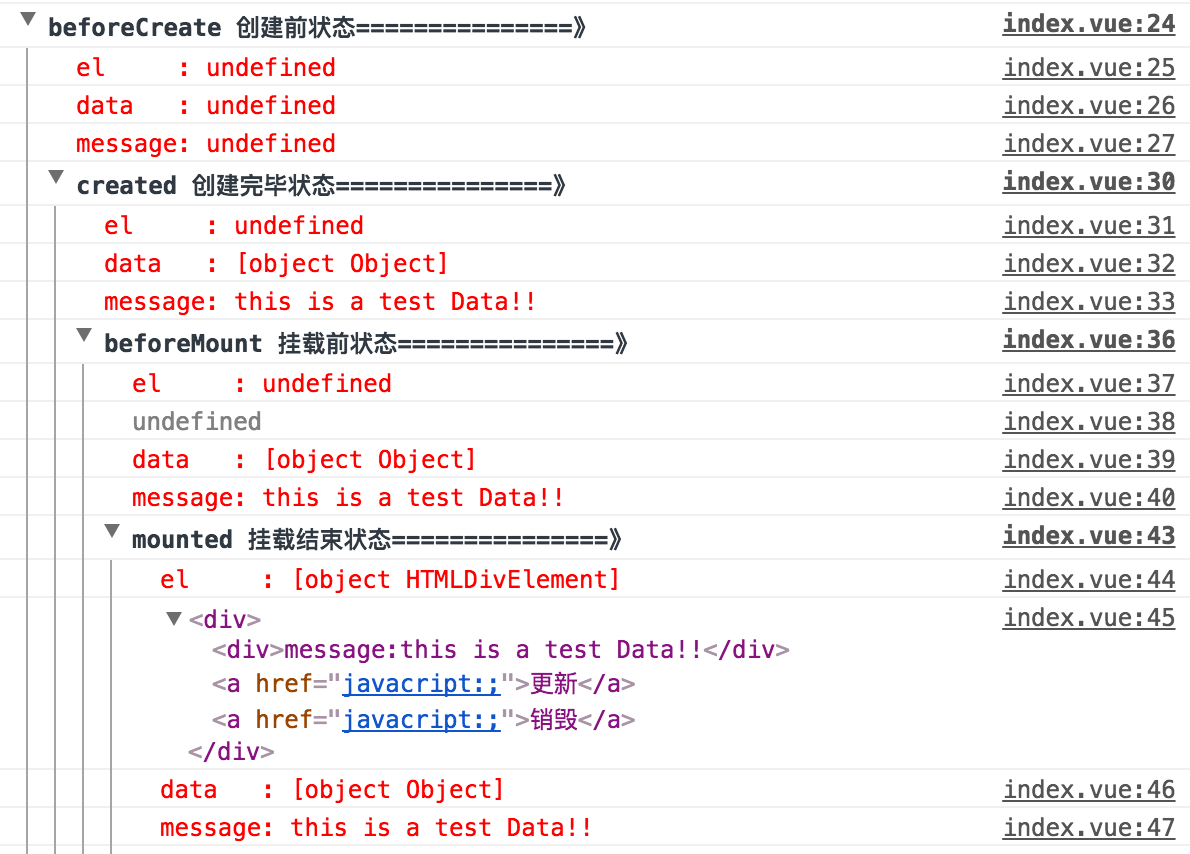
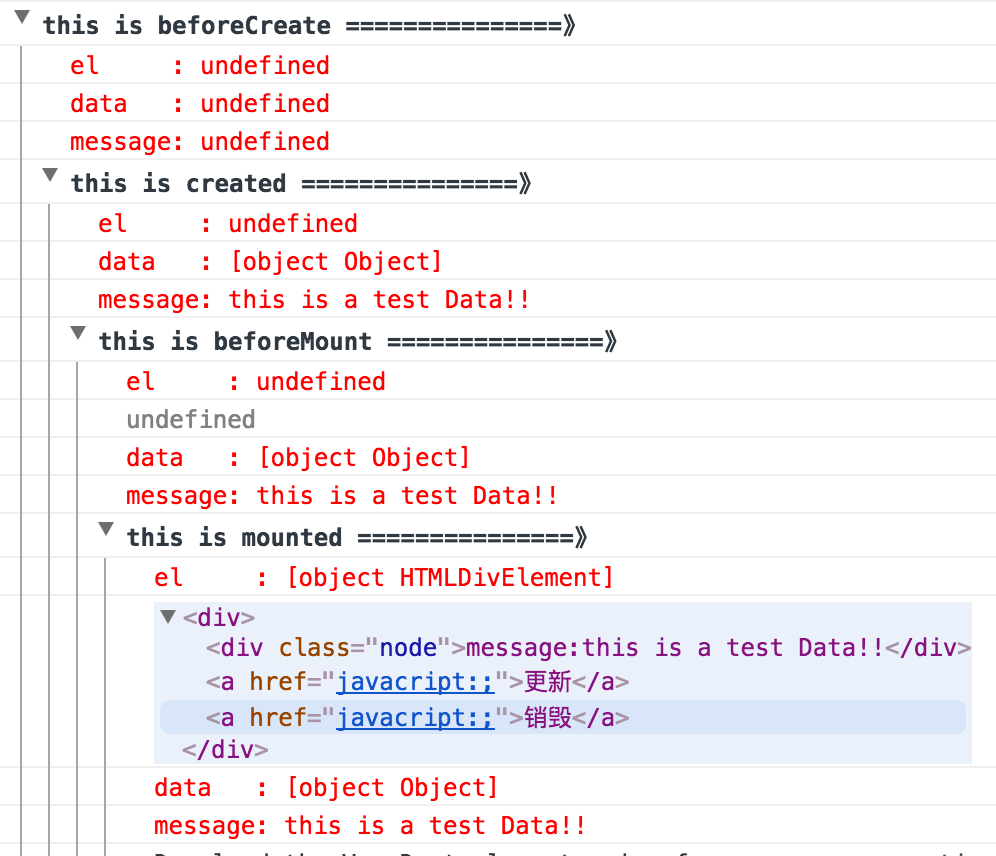
add

Changed region(s): [[0.0, 0.0, 0.996, 1.0], [0.8404, 0.0, 0.996, 0.6393], [0.8404, 0.9133, 0.996, 1.0]]

diff --git a/vue-difference.md b/vue-difference.md
@@ -28,73 +28,128 @@
 
 ---
 ## 2、探究生命周期
-vue 生命周期图及表格依然醒目的展示了，各钩子函数的执行顺序，现在探究具体钩子函数的执行过程；
-```script
-	data(){
-    	return {
-    		message:"this is a test Data!!",
-            isDestroy:false
-    	}
-    }, 
-    beforeCreate: function () {
-        console.group('beforeCreate 组件创建前状态===============》');
-        console.log("%c%s", "color:red" , "el     : " + this.$el); //undefined
-        console.log("%c%s", "color:red","data   : " + this.$data); //undefined 
-        console.log("%c%s", "color:red","message: " + this.message);// undefined
-    },
-    created: function () {
-        console.group('created 组件创建完毕状态===============》');
-        console.log("%c%s", "color:red","el     : " + this.$el); //undefined
-        console.log("%c%s", "color:red","data   : " + this.$data); //已被初始化 
-        console.log("%c%s", "color:red","message: " + this.message); //已被初始化
-    },
-    beforeMount: function () {
-    	console.log(document.querySelector(""))
-        console.group('beforeMount 挂载前状态===============》');
-        console.log("%c%s", "color:red","el     : " + (this.$el)); //已被初始化
-        console.log(this.$el);
-        console.log("%c%s", "color:red","data   : " + this.$data); //已被初始化  
-        console.log("%c%s", "color:red","message: " + this.message); //已被初始化  
-    },
-    mounted: function () {
-        console.group('mounted 挂载结束状态===============》');
-        console.log("%c%s", "color:red","el     : " + this.$el); //已被初始化
-        console.log(this.$el);    
-        console.log("%c%s", "color:red","data   : " + this.$data); //已被初始化
-        console.log("%c%s", "color:red","message: " + this.message); //已被初始化 
-    },
-    beforeUpdate: function () {
-        console.group('beforeUpdate 更新前状态===============》');
-        console.log("%c%s", "color:red","el     : " + this.$el);
-        console.log(this.$el);   
-        console.log("%c%s", "color:red","data   : " + this.$data); 
-        console.log("%c%s", "color:red","message: " + this.message); 
-    },
-    updated: function () {
-        console.group('updated 更新完成状态===============》');
-        console.log("%c%s", "color:red","el     : " + this.$el);
-        console.log(this.$el); 
-        console.log("%c%s", "color:red","data   : " + this.$data); 
-        console.log("%c%s", "color:red","message: " + this.message); 
-    },
-    beforeDestroy: function () {
-        console.group('beforeDestroy 销毁前状态===============》');
-        console.log("%c%s", "color:red","el     : " + this.$el);
-        console.log(this.$el);    
-        console.log("%c%s", "color:red","data   : " + this.$data); 
-        console.log("%c%s", "color:red","message: " + this.message); 
-    },
-    destroyed: function () {
-        console.group('destroyed 销毁完成状态===============》');
-        console.log("%c%s", "color:red","el     : " + this.$el);
-        console.log(this.$el);  
-        console.log("%c%s", "color:red","data   : " + this.$data); 
-        console.log("%c%s", "color:red","message: " + this.message)
+
+> vue所有功能的实现都是围绕其生命周期进行的，在生命周期的不同阶段调用对应的钩子函数可以实现组件数据管理和DOM渲染两大重要功能
+
+### 第一种创建实例的方式
+```javascript 
+<template>
+    <div>
+        <div class="node">message:{{message}}</div>
+        <a href="javacript:;" @click="update">更新</a>
+        <a href="javacript:;" @click="destroy">销毁</a>
+    </div>
+</template>
+<script>
+    import Axios from 'axios' ;     // 这是一个轻量级的ajax库，import是es6模块导入的语法。
+    export default { 
+    	data(){
+        	return {
+        		message:"this is a test Data!!",
+                isDestroy:false
+        	}
+        }, 
+        beforeCreate: function () {
+            console.group('this is beforeCreate ===============》');
+            console.log("%c%s", "color:red" , "el     : " + this.$el); //undefined
+            console.log("%c%s", "color:red","data   : " + this.$data); //undefined 
+            console.log("%c%s", "color:red","message: " + this.message);// undefined
+        },
+        created: function () {
+            console.group('this is created ===============》');
+            console.log("%c%s", "color:red","el     : " + this.$el); //undefined
+            console.log("%c%s", "color:red","data   : " + this.$data); //已被初始化 
+            console.log("%c%s", "color:red","message: " + this.message); //已被初始化
+        },
+        beforeMount: function () {
+            console.group('this is beforeMount ===============》');
+            console.log("%c%s", "color:red","el     : " + (this.$el)); //undefined
+            console.log(this.$el);
+            console.log("%c%s", "color:red","data   : " + this.$data); //已被初始化  
+            console.log("%c%s", "color:red","message: " + this.message); //已被初始化  
+        },
+        mounted: function () {
+            console.group('this is mounted ===============》');
+            console.log("%c%s", "color:red","el     : " + this.$el); //已被初始化
+            console.log(this.$el);    
+            console.log("%c%s", "color:red","data   : " + this.$data); //已被初始化
+            console.log("%c%s", "color:red","message: " + this.message); //已被初始化 
+        },
+        beforeUpdate: function () {
+            console.group('this is beforeUpdate ===============》');
+            console.log("%c%s", "color:red","el     : " + this.$el);
+            console.log(this.$el);   
+            console.log("%c%s", "color:red","data   : " + this.$data); 
+            console.log("%c%s", "color:red","message: " + this.message); 
+        },
+        updated: function () {
+            console.group('this is updated ===============》');
+            console.log("%c%s", "color:red","el     : " + this.$el);
+            console.log(this.$el); 
+            console.log("%c%s", "color:red","data   : " + this.$data); 
+            console.log("%c%s", "color:red","message: " + this.message); 
+        },
+        beforeDestroy: function () {
+            console.group('this is beforeDestroy ===============》');
+            console.log("%c%s", "color:red","el     : " + this.$el);
+            console.log(this.$el);    
+            console.log("%c%s", "color:red","data   : " + this.$data); 
+            console.log("%c%s", "color:red","message: " + this.message); 
+        },
+        destroyed: function () {
+            console.group('this is destroyed ===============》');
+            console.log("%c%s", "color:red","el     : " + this.$el);
+            console.log(this.$el);  
+            console.log("%c%s", "color:red","data   : " + this.$data); 
+            console.log("%c%s", "color:red","message: " + this.message)
+        }
     }
+</script>
+```
+    ![页面初始渲染过程](./assets/img/init.png)
+    ![页面更新渲染过程](./assets/img/update.png)
+    ![页面更新+销毁渲染过程](./assets/img/update+destroy.png)
+    ![页面销毁后过程](./assets/img/destroyed.png)
+
+>PS: 这种创建实例的方法中 beforeMount 打印的结果，与预期不符合???? why!!!;
+
+### 换一种创建实例的方式
+
+
+```javascript
+    <script>
+    let newVue = new  Vue({
+        el :"#annther_way",
+        beforeMount(){
+            console.group('this is beforeMount ===============》');
+            console.log("%c%s", "color:red","el     : " + (this.$el)); //已被初始化
+            console.log(this.$el);
+            console.log("%c%s", "color:red","data   : " + this.$data); //已被初始化  
+            console.log("%c%s", "color:red","message: " + this.message); //已被初始化  
+        }
+    })
+    </script>
 ```
 
+![换一种方式过程](./assets/img/ather.png)
 
-> 总结console结果	
-	* <strong color="red">beforeCreate:</strong>dom $el 和 属性data 并未初始化 
-	* <strong color="red">created:</strong>组件创建完毕,组件属性被初始化
-	* <strong color="red">beforeMount:</strong>模板挂在之前
+> 总结 console 结果	
+	*  ** beforeCreate: ** 即将创建,此阶段为组件实例初始化之后，此时的数据观察和事件机制都未形成 
+	*  ** created: ** 组件实例已经创建完成之后被调用。在这一步，实例已完成以下的配置：数据观测(data observer)，属性和方法的运算， watch/event 事件回调。然而，挂载阶段还没开始，$el 属性目前不可见。
+        > > 首先，运行new Vue()的时候，会进入代码src/core/instance/index.js的Vue构造方法中，并执行this._init()方法。在_init中，会对各个功能进行初始化，并执行beforeCreate和created两个生命周期方法。核心代码如下:
+        ```javacript
+            initLifecycle(vm)
+            initEvents(vm)
+            callHook(vm, 'beforeCreate')
+            initState(vm)
+            callHook(vm, 'created')
+            initRender(vm)
+        ```
+        可以看到，到当执行钩子函数created时，complier还没有将template解析成render方法，DOM自然不能获取;
+
+	* **beforeMount: ** 在挂载开始之前被调用：相关的 render 函数首次被调用。
+	*  ** mounted: ** el 被新创建的 vm.$el 替换，并挂载到实例上去之后调用该钩子。如果 root 实例挂载了一个文档内元素，当 mounted 被调用时 vm.$el 也在文档内。
+    *  ** beforeUpdate: ** 数据更新时调用，发生在虚拟 DOM 重新渲染和打补丁之前。 可以在这个钩子中进一步地更改状态，这不会触发附加的重渲染过程。
+    * ** updated: ** 由于数据更改导致的虚拟 DOM 重新渲染和打补丁，在这之后会调用该钩子。当这个钩子被调用时，组件 DOM 已经更新，所以你现在可以执行依赖于DOM操作。然而在大多数情况下，你应该避免在此期间更改状态，因为这可能会导致更新无限循环。该钩子在服务器端渲染期间不被调用。
+    * ** beforeDestroy ** 实例销毁之前调用。在这一步，实例仍然完全可用;
+    * ** destroyed ** Vue 实例销毁后调用。调用后，Vue 实例指示的所有东西都会解绑定，所有的事件监听器会被移除，所有的子实例也会被销毁。 该钩子在服务器端渲染期间不被调用。
